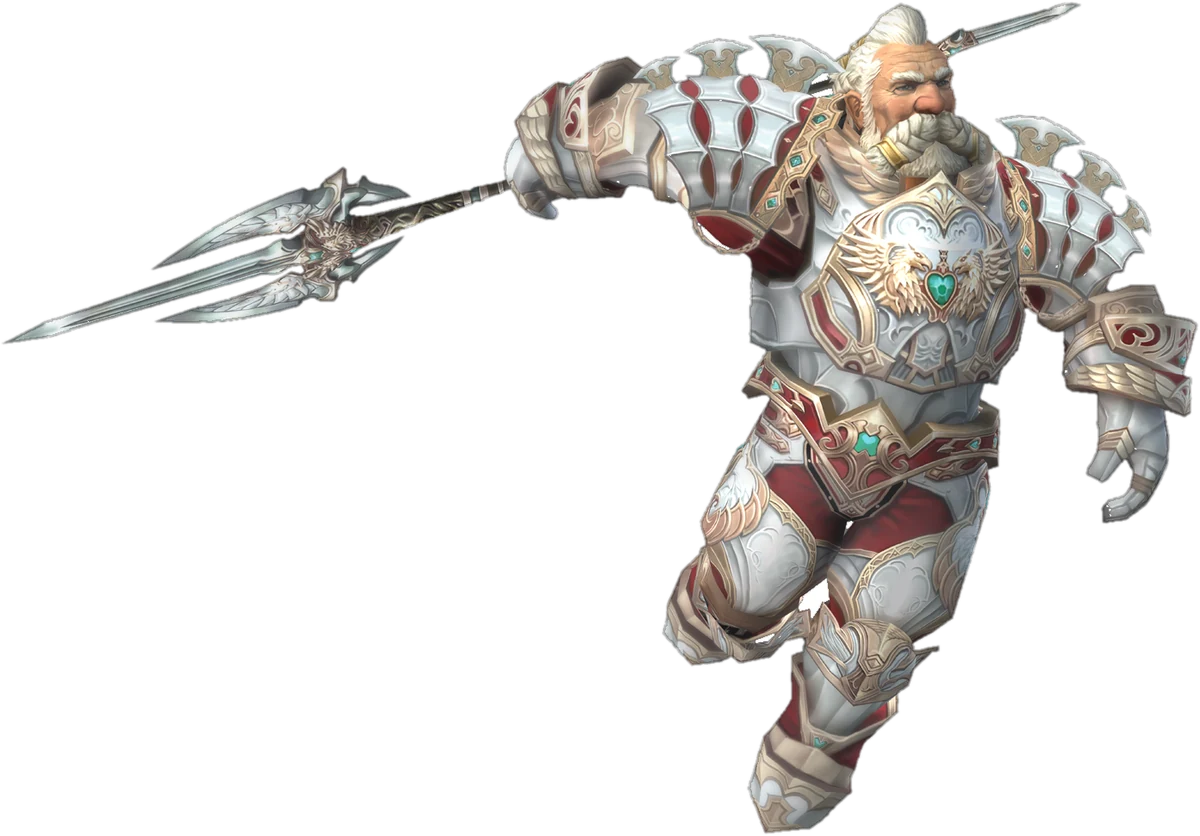
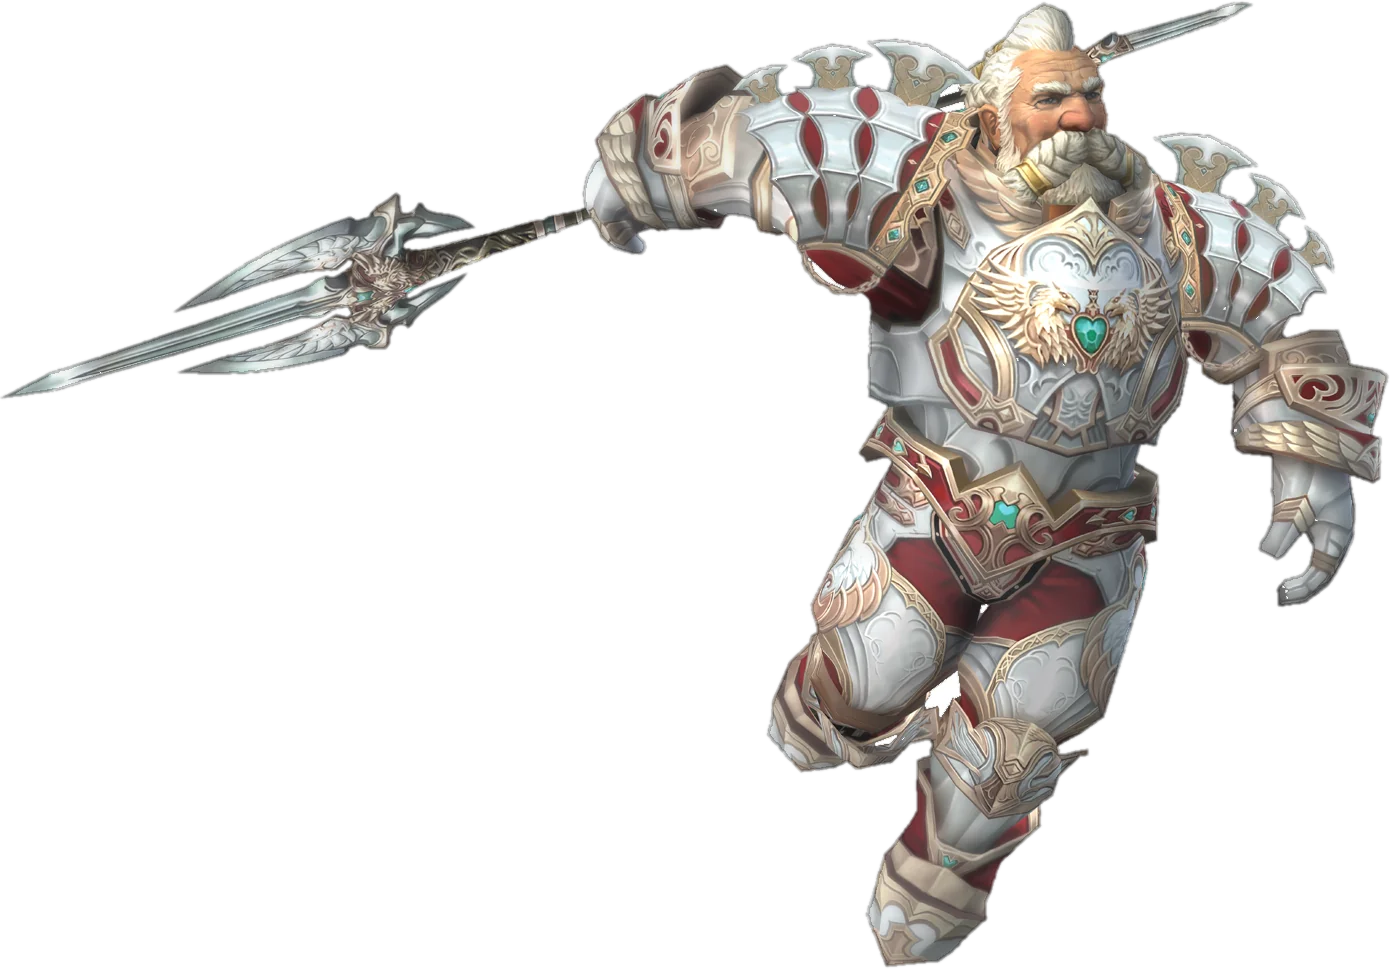
v3: Demon, Knight, Elf and Dwarf composition with parallax and embers

diff --git a/index.html b/index.html
@@ -78,27 +78,44 @@ h2:after{background:linear-gradient(90deg,#d4a24c,#4a7fbf,transparent)}
 .card:hover{border-color:#4a7fbf !important;box-shadow:0 0 24px rgba(74,127,191,.18)}
 @media(max-width:1000px){.top{grid-template-columns:1fr}.right .rates{grid-template-columns:repeat(4,1fr)}}
 @media(max-width:640px){.right .rates{grid-template-columns:1fr 1fr}}
-.char{position:fixed;z-index:0;pointer-events:none;-webkit-mask-image:linear-gradient(to bottom,#000 72%,transparent 98%);mask-image:linear-gradient(to bottom,#000 72%,transparent 98%)}
-.char img{display:block;width:100%;height:auto}
-.knight{left:-4vw;bottom:-2vh;height:92vh;aspect-ratio:348/520;animation:floatA 7s ease-in-out infinite}
-.knight img{height:100%;width:auto;filter:drop-shadow(0 0 2px rgba(255,220,150,.6)) drop-shadow(-10px 0 28px rgba(212,162,76,.35)) drop-shadow(0 30px 40px rgba(0,0,0,.8))}
-.dwarf{right:-4vw;top:20vh;width:min(36vw,72vh);animation:floatB 6s ease-in-out infinite}
-.dwarf img{filter:drop-shadow(0 0 2px rgba(170,200,255,.6)) drop-shadow(12px 0 30px rgba(74,127,191,.45)) drop-shadow(0 30px 40px rgba(0,0,0,.8))}
-@keyframes floatA{50%{transform:translateY(-10px)}}
-@keyframes floatB{0%,100%{transform:translateY(0) rotate(-1deg)}50%{transform:translateY(-18px) rotate(1deg)}}
-.page{position:relative;z-index:1;width:min(62vw,1140px) !important}.cd-label{letter-spacing:.14em !important;white-space:nowrap;font-size:clamp(10px,.72vw,15px) !important}@media(max-width:640px){.cd-label{white-space:normal}}
-.page:before{content:"";position:absolute;inset:-4vh -4vw;z-index:-1;background:radial-gradient(ellipse at center,rgba(7,7,10,.72) 35%,transparent 72%);pointer-events:none}
+.page{position:relative;z-index:2;width:min(62vw,1140px) !important}.cd-label{letter-spacing:.14em !important;white-space:nowrap;font-size:clamp(10px,.72vw,15px) !important}
+.page:before{content:"";position:absolute;inset:-4vh -4vw;z-index:-1;background:radial-gradient(ellipse 60% 55% at 50% 62%,rgba(7,7,10,.78) 40%,transparent 75%);pointer-events:none}
 .top{grid-template-columns:1.2fr 1fr !important}
-@media(max-width:1400px){.page{width:min(74vw,1120px) !important}.char{opacity:.55}}
-@media(max-width:1000px){.page{width:92vw !important}.knight{opacity:.18;left:-20vw}.dwarf{opacity:.18;right:-25vw;width:80vw}}
-@media(max-width:1000px){.top{grid-template-columns:1fr !important}}@media(max-width:640px){.char{display:none}}
 h1{font-size:clamp(44px,min(6vw,8.5vh),130px) !important}.gflogo{width:clamp(180px,min(16vw,21vh),380px) !important}.cd-box{width:clamp(64px,min(6.5vw,11vh),150px) !important}.cd-num{font-size:clamp(30px,min(3.8vw,6.4vh),80px) !important}.card p{font-size:clamp(12px,.62vw + .2vh,16px) !important}
+.stage{position:fixed;inset:0;z-index:1;pointer-events:none;overflow:hidden}
+.ch{position:absolute;will-change:transform;transition:transform .25s ease-out}
+.ch img{display:block;width:100%;height:auto;-webkit-mask-image:linear-gradient(to bottom,#000 70%,transparent 99%);mask-image:linear-gradient(to bottom,#000 70%,transparent 99%)}
+.ch .fl{animation:fl 7s ease-in-out infinite}
+@keyframes fl{50%{transform:translateY(-12px)}}
+.demon{left:50%;top:-20vh;width:min(64vw,115vh);margin-left:calc(min(64vw,115vh) / -2);z-index:0}
+.demon img{opacity:.4;filter:drop-shadow(0 0 40px rgba(200,30,20,.75)) drop-shadow(0 0 120px rgba(160,20,10,.6)) saturate(1.2) brightness(.8)}
+.demon .fl{animation-duration:10s}
+.demon:after{content:"";position:absolute;left:38%;top:14%;width:24%;height:10%;background:radial-gradient(ellipse,rgba(255,40,20,.35),transparent 70%);filter:blur(10px);animation:eye 4s ease-in-out infinite}
+@keyframes eye{50%{opacity:.3}}
+.knight{left:1vw;bottom:-5vh;height:86vh;width:calc(90vh * .67);z-index:3}
+.knight img{height:100%;width:auto;filter:drop-shadow(0 0 2px rgba(255,225,160,.7)) drop-shadow(-8px 0 26px rgba(212,162,76,.45)) drop-shadow(0 30px 40px rgba(0,0,0,.85))}
+.elf{left:-9vw;bottom:14vh;height:60vh;width:calc(62vh * .8);z-index:2}
+.elf img{height:100%;width:auto;opacity:.62;filter:drop-shadow(0 0 2px rgba(200,220,255,.6)) drop-shadow(0 0 26px rgba(120,170,255,.5)) brightness(.85)}
+.elf .fl{animation-duration:9s;animation-delay:-3s}
+.dwarf{right:-5vw;top:14vh;width:min(36vw,70vh);z-index:3}
+.dwarf img{filter:drop-shadow(0 0 2px rgba(170,200,255,.7)) drop-shadow(12px 0 30px rgba(74,127,191,.5)) drop-shadow(0 30px 40px rgba(0,0,0,.85))}
+.dwarf .fl{animation-duration:6s}
+.embers{position:absolute;inset:0;background-image:radial-gradient(2px 2px at 30% 80%,rgba(255,120,40,.8),transparent),radial-gradient(1.5px 1.5px at 60% 90%,rgba(255,170,60,.7),transparent),radial-gradient(2px 2px at 80% 70%,rgba(255,90,30,.7),transparent),radial-gradient(1.5px 1.5px at 15% 95%,rgba(255,150,60,.6),transparent);background-size:400px 400px;animation:rise 18s linear infinite;opacity:.55}
+@keyframes rise{to{background-position:0 -800px}}
+@media(max-width:1400px){.page{width:min(74vw,1120px) !important}.elf{display:none}.knight{left:-9vw;opacity:.5}.dwarf{right:-10vw;opacity:.5}}
+@media(max-width:1000px){.page{width:92vw !important}.top{grid-template-columns:1fr !important}.knight{opacity:.2;left:-18vw}.dwarf{opacity:.2;right:-22vw;width:70vw}.demon img{opacity:.18}}
+@media(max-width:640px){.knight,.dwarf,.elf{display:none}.demon{width:120vw;margin-left:-60vw;top:-4vh}.demon img{opacity:.14}.cd-label{white-space:normal}}
 </style>
 </head>
 <body>
 <div class="bg"></div>
-<div class="char knight"><img src="img/knight.webp" alt="Human Knight"></div>
-<div class="char dwarf"><img src="img/dwarf.webp" alt="Dwarf Warrior"></div>
+<div class="stage" id="stage">
+  <div class="embers"></div>
+  <div class="ch demon" data-d="10"><div class="fl"><img src="img/demon.webp" alt=""></div></div>
+  <div class="ch elf" data-d="18"><div class="fl"><img src="img/elf.webp" alt="Elf"></div></div>
+  <div class="ch knight" data-d="30"><div class="fl"><img src="img/knight.webp" alt="Human Knight"></div></div>
+  <div class="ch dwarf" data-d="34"><div class="fl"><img src="img/dwarf.webp" alt="Dwarf"></div></div>
+</div>
 <div class="page">
 <div class="top">
 <header class="left">
@@ -157,6 +174,9 @@ function tick(){var d=T-Date.now();if(d<=0){document.getElementById('cd').innerH
 var v=[Math.floor(d/864e5),Math.floor(d/36e5)%24,Math.floor(d/6e4)%60,Math.floor(d/1e3)%60];
 ids.forEach(function(k,i){var e=document.getElementById('cd-'+k),t=p(v[i]);if(prev[k]!==t){e.textContent=t;e.classList.remove('tick');void e.offsetWidth;e.classList.add('tick');prev[k]=t}});setTimeout(tick,1000-Date.now()%1000)}
 tick()})();
+</script>
+<script>
+(function(){var L=[].slice.call(document.querySelectorAll('.ch'));if(matchMedia('(pointer:fine)').matches)addEventListener('mousemove',function(e){var x=e.clientX/innerWidth-.5,y=e.clientY/innerHeight-.5;L.forEach(function(l){var d=+l.dataset.d;l.style.transform='translate('+(-x*d)+'px,'+(-y*d*.6)+'px)'})})})();
 </script>
 </body>
 </html>
